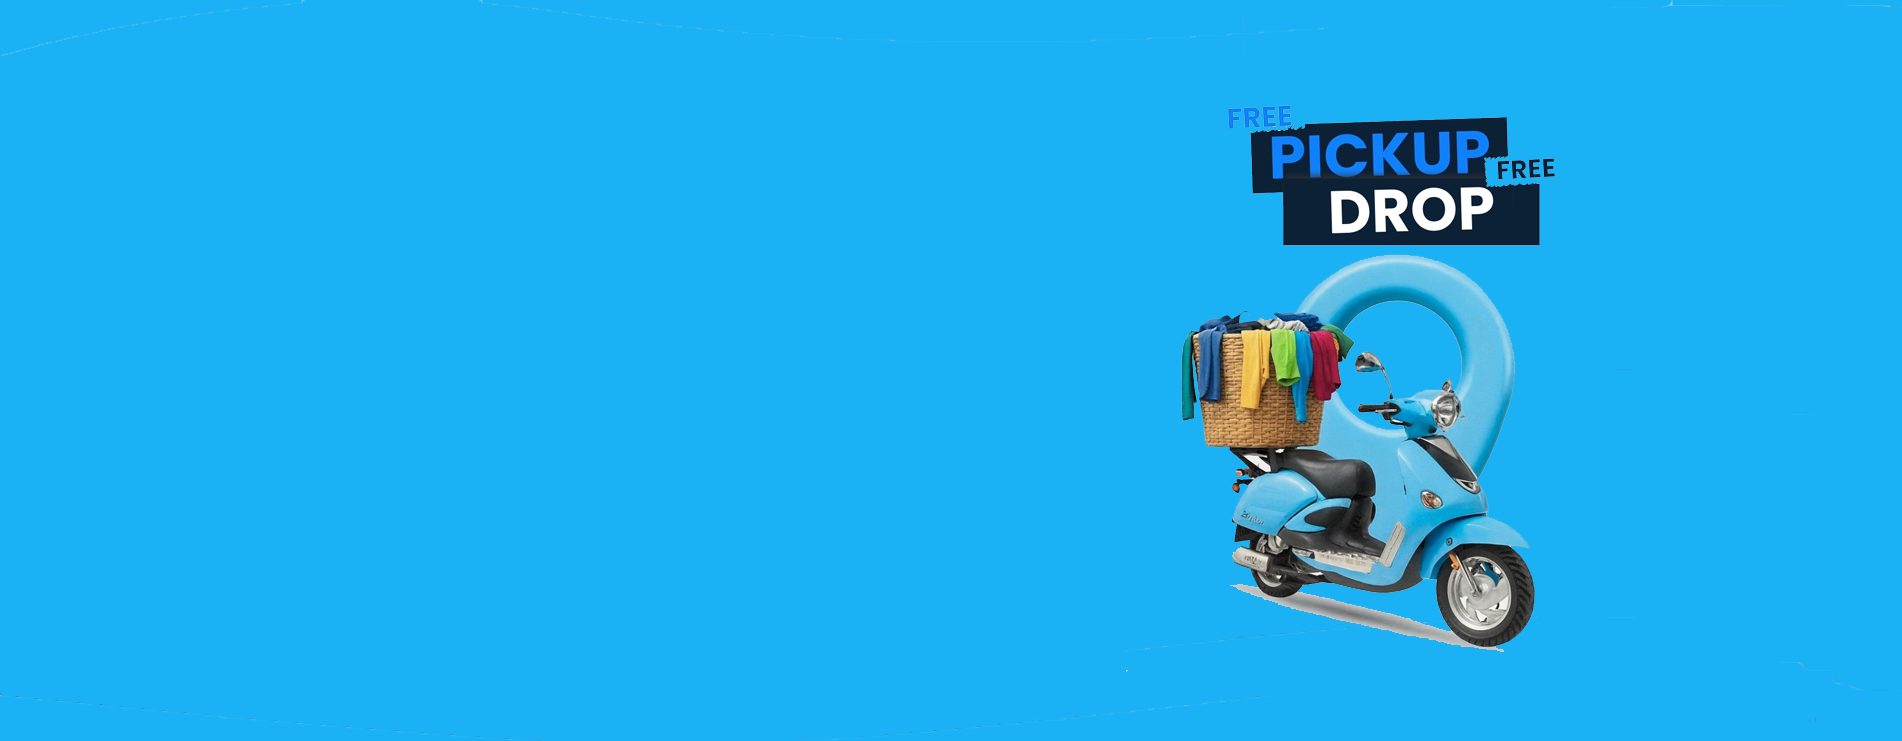
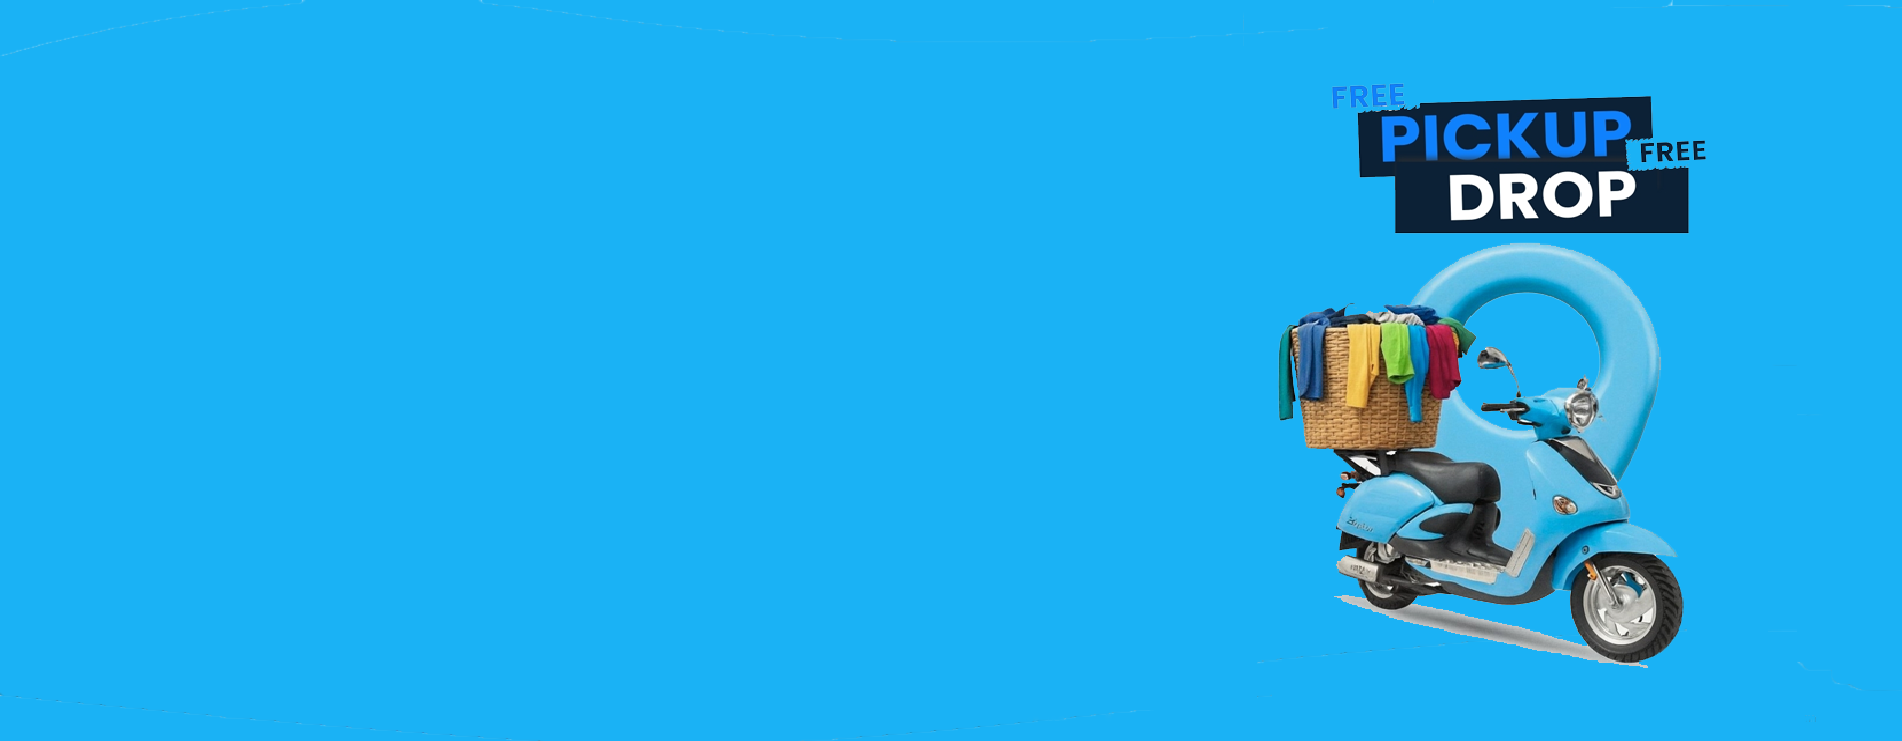
gallery changes

Changed region(s): [[0.6204, 0.0931, 0.8996, 0.9001]]

diff --git a/gallery.php b/gallery.php
@@ -206,7 +206,7 @@
                 <div class="img-box" style="height:400px; overflow:hidden;">
                     <figure>
                         <a href="https://www.instagram.com/fabklean_/" target="_blank">
-                        <img src="images/gallery/fetch1.jfif" alt="" style="width:100%; height:100%; object-fit:cov
+                        <img src="images/gallery/fetch1a.png" alt="" style="width:100%; height:100%; object-fit:cov
                         </a>er;">
                     </figure>
                 </div>
@@ -248,7 +248,7 @@
                 <div class="img-box" style="height:400px; overflow:hidden;">
                     <figure>
                         <a href="https://www.instagram.com/fabklean_/" target="_blank">
-                        <img src="images/gallery/g3.jpg" alt="" style="width:100%; height:100%; object-fit:cover;">
+                        <img src="images/gallery/7.jpg" alt="" style="width:100%; height:100%; object-fit:cover;">
                         </a>
                     </figure>
                 </div>
